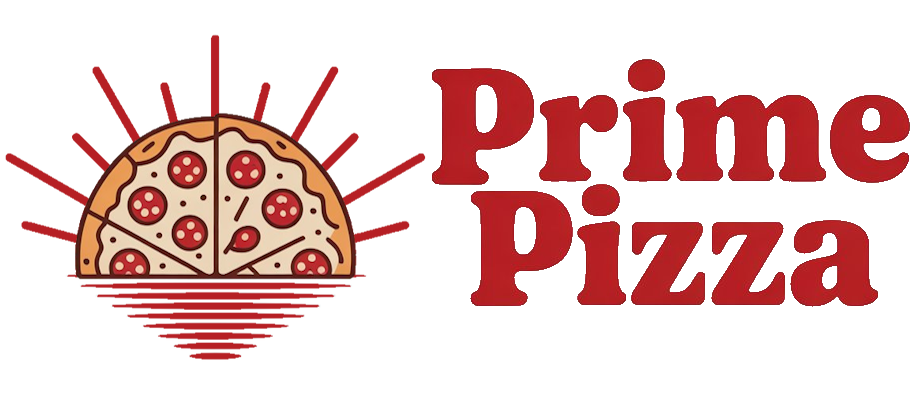
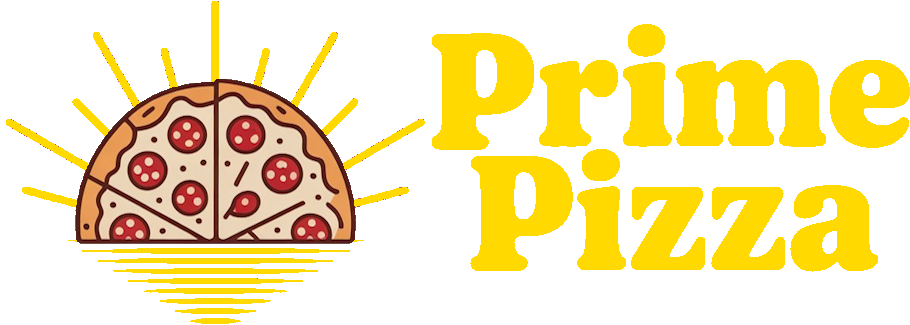
Update home
Atualização da home + fix da navbar (incompleta)

diff --git a/src/components/navbarHome/index.js b/src/components/navbarHome/index.js
@@ -5,14 +5,10 @@ import { useNavigation } from '@react-navigation/native';
 import Logo from '../../img/PrimePizza.png'
 import VoltarBtn from '../../img/bt_back.png'
 
-export default function Navbar() {
+export default function NavbarHome() {
 const navigation = useNavigation();
   return (
-    <View style={styles.headerContainer}>
-      <TouchableOpacity onPress={() => navigation.navigate('Home')}>
-        <Ionicons name="arrow-back" size={32} color="black" />
-      </TouchableOpacity>
-
+    <View style={styles.headerContainer}>    
       <Image
         source={require('../../img/PrimePizza.png')}
         style={styles.logo}

diff --git a/src/pages/home/index.js b/src/pages/home/index.js
@@ -1,12 +1,12 @@
 import { View, ScrollView, Text } from 'react-native';
-import Navbar from '../../components/navbar';
+import NavbarHome from '../../components/navbarHome';
 import { styles } from './styles';
 import Carrosel from '../../components/carrossel/index'
 
 export default function Home() {
   return (
     <View style={styles.borda}>
-      <Navbar />
+      <NavbarHome />
       <ScrollView>
         <Carrosel categoria="promo" />
         <Carrosel categoria="pizza" />

diff --git a/src/components/navbarHome/styles.js b/src/components/navbarHome/styles.js
@@ -5,11 +5,11 @@ const styles = StyleSheet.create({
 headerContainer: {
     flexDirection: 'row',
     alignItems: 'center',
-    padding: 15,
+    backgroundColor: '#a20000'
   },
   logo: {
-    width: 225,
-    height: 100,
+    width: 275,
+    height: 125,
     marginLeft: 10,
   },
 });

diff --git a/src/pages/home/styles.js b/src/pages/home/styles.js
@@ -5,14 +5,13 @@ const styles = StyleSheet.create({
       fontSize: 50,
       marginTop: 50,
       textAlign: 'center',
-
     },
 
     borda:{
       borderColor:'black',
       borderWidth: 10,
       flex:1,
-      backgroundColor:'gray',
+      backgroundColor:'silver',
     },
 });
 

diff --git a/src/components/produto/styles.js b/src/components/produto/styles.js
@@ -10,7 +10,8 @@ const styles = StyleSheet.create({
       borderWidth: 3,
       height:200,
       width: 170,
-      borderRadius:15
+      borderRadius:15,
+      backgroundColor:'white',
     },
     imagem:{
       width: 150,

diff --git a/src/components/carrossel/styles.js b/src/components/carrossel/styles.js
@@ -12,6 +12,7 @@ const styles = StyleSheet.create({
     fontSize: 30,
     marginLeft: 10,
     marginTop: 20,
+    fontWeight: 'bold'
   },
 });
 
